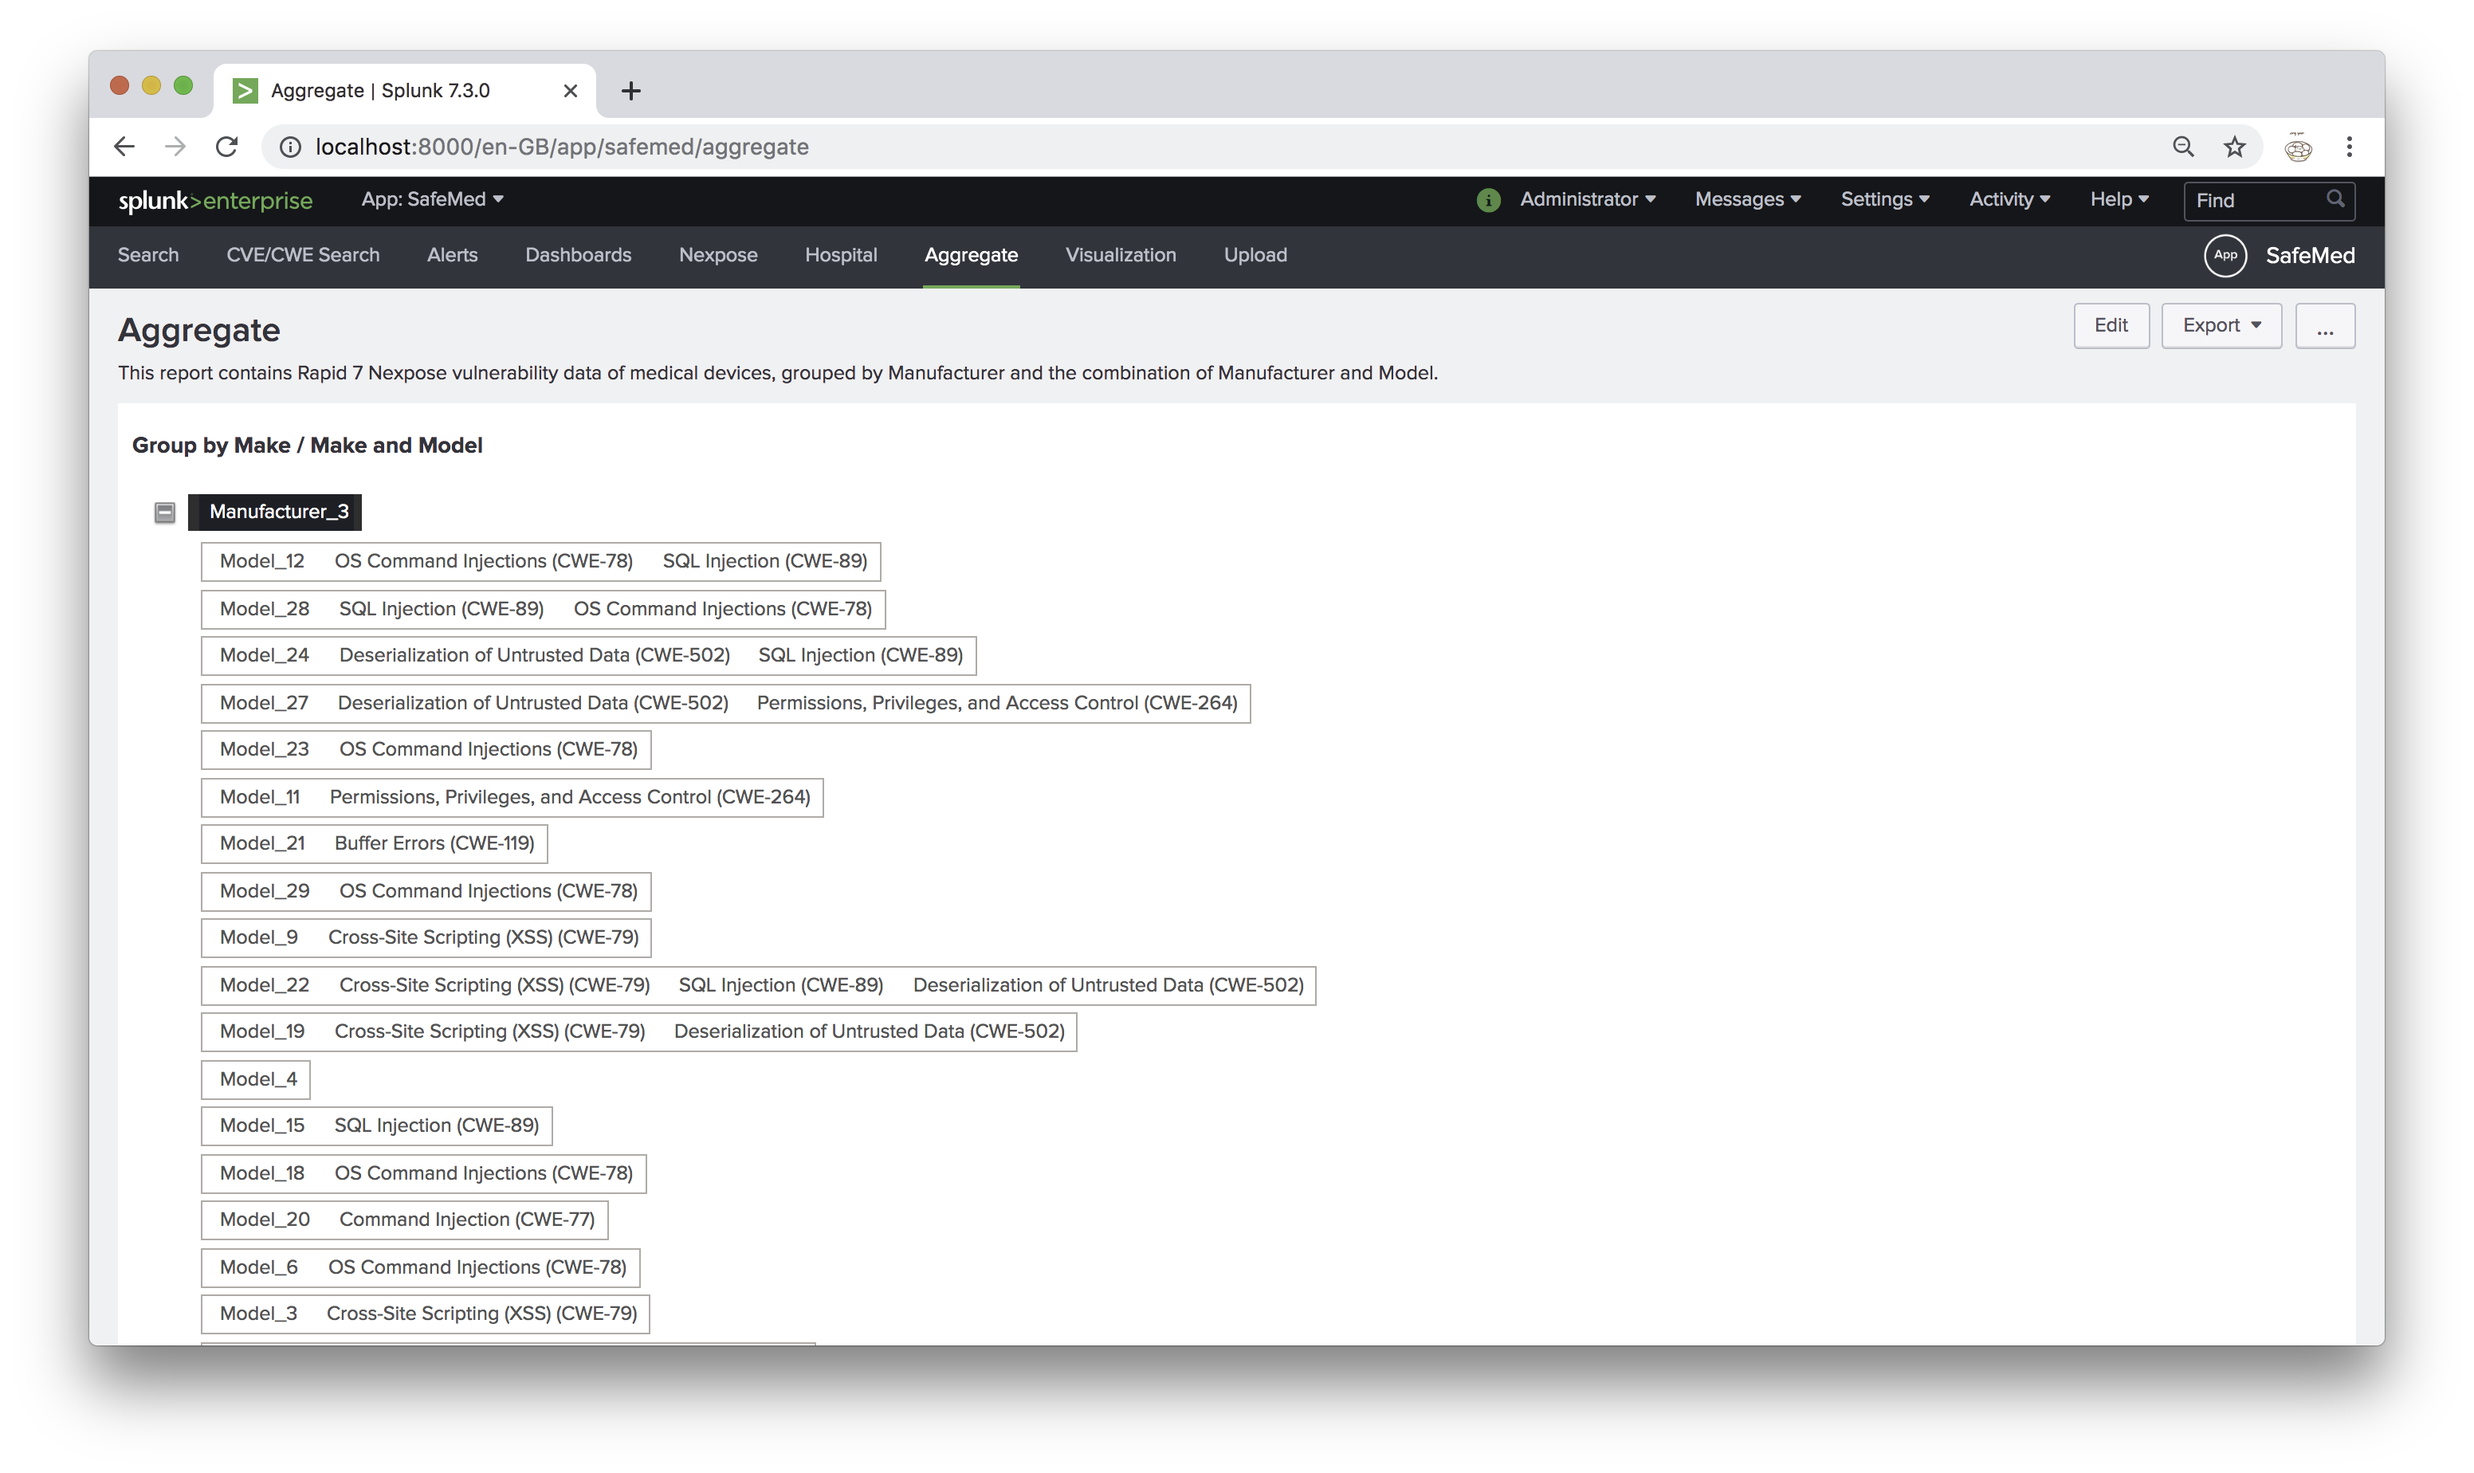
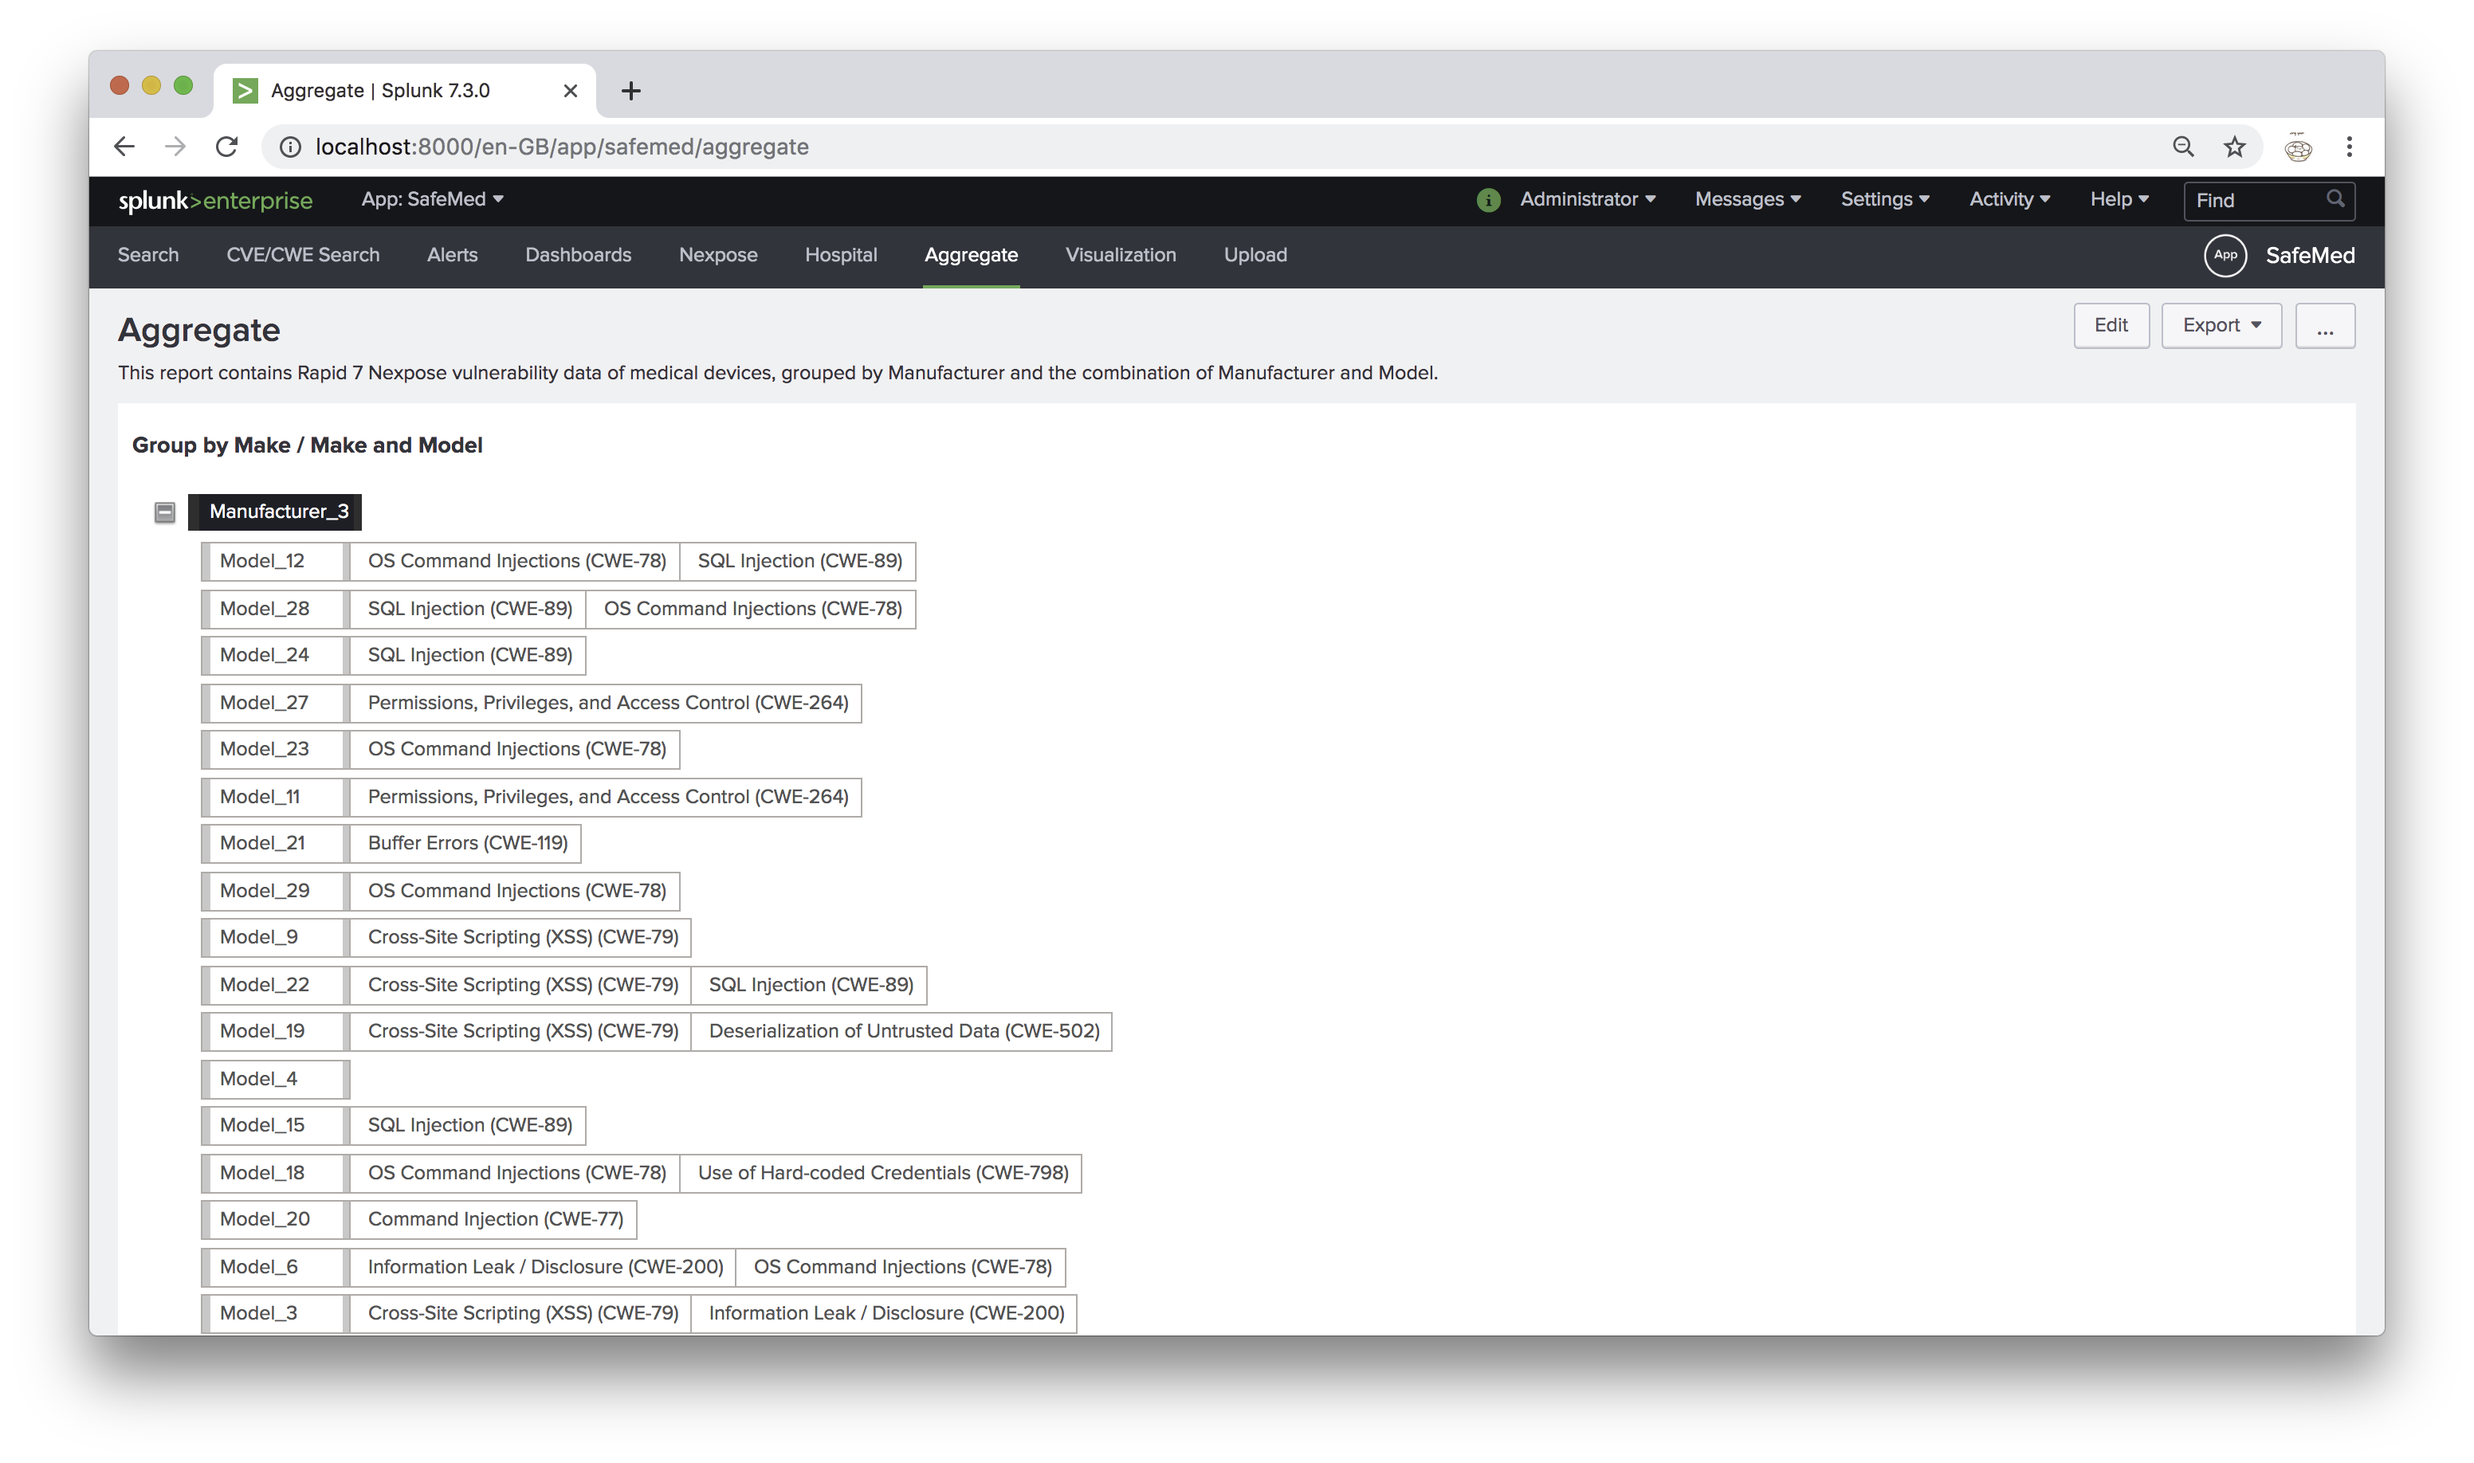
aggregate page redesign

diff --git a/code/Splunk_simple_search/static/js/aggregate.js b/code/Splunk_simple_search/static/js/aggregate.js
@@ -126,7 +126,7 @@ require([
                 // aggregate nexpose+hospital+cve, filtered by make&model
                 searchText = `${searchURL}"${make}" "${model}" ${query}&earliest=0`.replace("'", "%27");
                 var tableHTML = `<tr>
-                    <td><a href='${searchText}'>${model}</a></td>`;
+                    <td class="head"><a href='${searchText}'>${model}</a></td>`;
                 for (var cwe in modelObj.cwes) {
                     if (cwe && modelObj.cwes[cwe]) {
                         var detailHref = `${detailURL}make=${make}&model=${model}&cwe=${cwe}`.replace("'", "%27");
